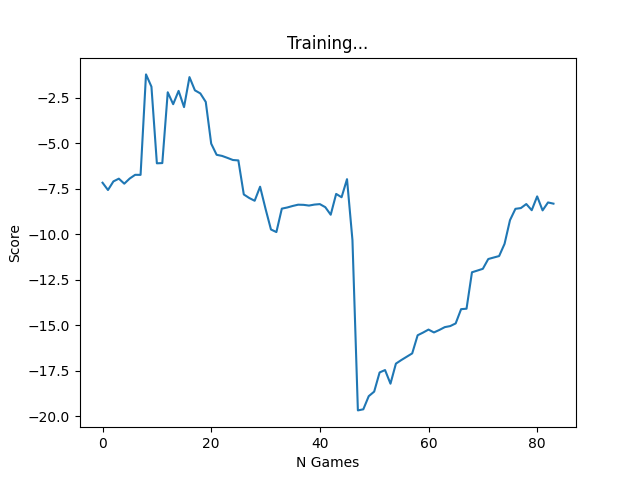
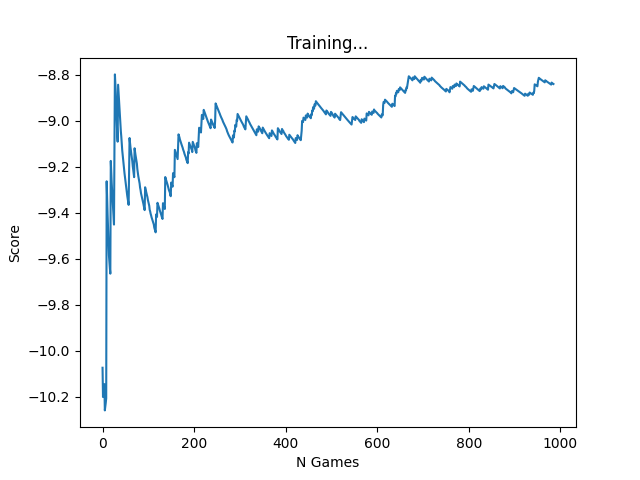
train2 - still stucks inputing distances

diff --git a/Agent.py b/Agent.py
@@ -6,6 +6,8 @@ from AI.model.model import Linear_QNet, QTrainer
 import random
 from AI.Helper.helper import plot
 import pygame
+import math
+import numpy as np
 
 class Agent:
 
@@ -16,13 +18,14 @@ class Agent:
         self.batch_size = AIConfig.batch_size
         self.lr = AIConfig.LR
         self.memory =deque(maxlen=AIConfig.Max_Memory)
-        self.model = Linear_QNet(AIConfig.input_size, AIConfig.hidden_size, AIConfig.output_size)
+        self.model = Linear_QNet(AIConfig.input_size, AIConfig.hidden1_size, AIConfig.hidden2_size, AIConfig.output_size)
         self.trainer = QTrainer(self.model, AIConfig.LR, AIConfig.gamma, )
 
     def get_action(self,state):
-        self.epsilon = AIConfig.epsilon - self.n_game
+        p = random.random() * math.exp(-self.n_game*(AIConfig.epsilon_decay))
+        #print(math.exp(-self.n_game*(AIConfig.epsilon_decay)))
         final_move = [0,0,0]
-        if(random.randint(0, AIConfig.epsilon*3) < self.epsilon):
+        if(p > (1-AIConfig.random_move_prob)):
             move = random.randint(0,2)
             final_move[move] = 1
 
@@ -39,7 +42,8 @@ class Agent:
         self.memory.append((state, action, reward, next_state, done))
 
     def train_short_memory(self, state, action, reward, next_state, done):
-        self.trainer.train_step(state, action, reward, next_state, done)
+        loss = self.trainer.train_step(state, action, reward, next_state, done)
+        return loss
 
     def train_long_memory(self):
         if(len(self.memory) > self.batch_size):
@@ -55,6 +59,8 @@ class Agent:
 def train():
     plot_score = []
     mean_plot_score = []
+    loss_list = []
+    loss_mean = []
     total_score = 0
     record = 0
     agent = Agent()
@@ -71,11 +77,12 @@ def train():
 
         new_state = game_controller.get_state()
 
-        agent.train_short_memory(old_state, final_move, new_state, reward, isEnd)
-
+        loss = agent.train_short_memory(old_state, final_move, new_state, reward, isEnd)
+        loss_list.append(loss.item())
         agent.remember(old_state, final_move, new_state, reward, isEnd)
 
         if isEnd:
+            loss_mean.append(np.mean(loss_list))
             #print(len(game_controller.snake.coordinates))
             game_controller.reset()
 
@@ -92,7 +99,8 @@ def train():
             total_score += score
             mean_score = total_score / agent.n_game
             mean_plot_score.append(mean_score)
-            plot(plot_score, mean_plot_score)
+            plot(mean_plot_score, "score.png")
+            plot(loss_mean, "ssloss.png")
 
 
         game_controller.wait()

diff --git a/AI/AIGameController/AIGameController.py b/AI/AIGameController/AIGameController.py
@@ -4,6 +4,7 @@ from Food.Food import Food
 from Config import GameConfig , AssetsConfig, AIConfig
 import time
 import pygame
+import math
 
 class AIGameController:
     def __init__(self):
@@ -13,6 +14,7 @@ class AIGameController:
         self.score = 0
         self.frame_iteration = 0
         self.negative_step = AIConfig.negative_step
+        self.scale = GameConfig.scale
 
     def move_one_step(self,move_dir):
         self.negative_step += AIConfig.negative_step_growth
@@ -59,9 +61,16 @@ class AIGameController:
             self.score += AIConfig.punish
             reward = AIConfig.punish
             return reward, True, self.score
+
+        elif(len(self.snake.coordinates) * AIConfig.max_step_coef < self.frame_iteration ):
+            self.score += AIConfig.punish
+            reward = AIConfig.punish
+            return reward, True, self.score
+
         else:
-            self.score += self.negative_step
+            #self.score += self.negative_step
             reward = self.negative_step
+            reward = 0
 
             return reward, False, self.score
 
@@ -69,9 +78,36 @@ class AIGameController:
     def get_state(self):
         state = []
         state += self.snake.detect_danger()
-        state += self.snake.get_direction()
+        #state += self.snake.get_direction()
         state += self.get_food_direction()
+        state += self.get_food_distance()
+        #state += self.get_frame_iteration()
         return state
+
+    def get_frame_iteration(self):
+        fr_list = [0,0,0,0,0,0,0,0,0,0,0]
+        for i in range(len(fr_list)):
+            fr_list[i] = self.frame_iteration % (2**i)
+        return fr_list
+
+    def get_food_distance(self):
+
+        dis = abs(self.snake.coordinates[0][0] - self.food.coordinate[0])/self.scale + abs(self.snake.coordinates[0][1] - self.food.coordinate[1])/self.scale
+        """
+        dis_list = [0, 0, 0, 0]
+        dis = int(dis)
+        dis_list[0] = dis % 2
+        dis = int(dis/2)
+        dis_list[1] = dis % 2
+        dis = int(dis/2)
+        dis_list[2] = dis % 2
+        dis = int(dis/2)
+        dis_list[3] = dis % 2
+        """
+
+        dis_list=[int(dis)]
+        return dis_list
+
 
     def get_food_direction(self):
         dir = [0,0,0,0]

diff --git a/Snake/Snake.py b/Snake/Snake.py
@@ -5,6 +5,8 @@ from Utils.Utils import Utils
 class Snake:
     def __init__(self):
         self.scale = GameConfig.scale
+        self.game_width = GameConfig.Game_Width
+        self.game_hight = GameConfig.Game_Hight
         self.icon = pygame.image.load(AssetsConfig.SnakeBlockAddress)
         self.head_icon = pygame.image.load(AssetsConfig.SnakeHeadBlockAddress)
         self.direction = "right"
@@ -150,11 +152,14 @@ class Snake:
         (x, y) = self.coordinates[0]
 
         if(self.direction == "left"):
-            if((x-self.scale,y) in self.coordinates[1:] + self.walls):
-                danger[0] = 1
 
-            if((x,y-self.scale) in self.coordinates[1:] + self.walls):
-                danger[1] = 1
+            for i in range(self.game_width):
+                if((x-i*self.scale,y) in self.coordinates[1:] + self.walls):
+                    danger[0] = i
+
+            for i in range(self.game_hight):
+                if((x,y-i*self.scale) in self.coordinates[1:] + self.walls):
+                    danger[1] = 1
 
             if((x,y+self.scale) in self.coordinates[1:] + self.walls):
                 danger[2] = 1

diff --git a/AI/model/model.py b/AI/model/model.py
@@ -5,14 +5,16 @@ import torch.nn.functional as F
 import os
 
 class Linear_QNet(nn.Module):
-    def __init__(self, input_size, hidden_size , output_size):
+    def __init__(self, input_size, hidden1_size, hidden2_size  , output_size):
         super().__init__()
-        self.Linear1 = nn.Linear(input_size, hidden_size)
-        self.Linear2 = nn.Linear(hidden_size, output_size)
+        self.Linear1 = nn.Linear(input_size, hidden1_size)
+        #self.Linear2 = nn.Linear(hidden1_size, hidden2_size)
+        self.Linear3 = nn.Linear(hidden1_size, output_size)
 
     def forward(self, x):
         x = F.relu(self.Linear1(x))
-        x = self.Linear2(x)
+        #x = F.relu(self.Linear2(x))
+        x = self.Linear3(x)
         return x
 
     def save(self,file_name="model.pth" ):
@@ -58,6 +60,8 @@ class QTrainer:
         loss.backward()
 
         self.optimizer.step()
+
+        return loss
 
 
 

diff --git a/AI/Helper/helper.py b/AI/Helper/helper.py
@@ -3,18 +3,17 @@ import matplotlib.pyplot as plt
 
 #plt.ion()
 
-def plot(scores, mean_scores):
+def plot(mean_scores, plot_name):
     #display.clear_output(wait=True)
     #display.display(plt.gcf())
     plt.clf()
     plt.title("Training...")
     plt.xlabel("N Games")
     plt.ylabel("Score")
-    X = [i for i in range(0,len(scores))]
     #plt.plot(scores)
     plt.plot(mean_scores)
     #plt.ylim(ymin=0)
     #plt.draw()
     #plt.text(len(scores)-1, scores[-1], str[scores[-1]])
     #plt.text(len(mean_scores)-1, mean_scores[-1], str(mean_scores[-1]))
-    plt.savefig("plot.png")
+    plt.savefig(plot_name)

diff --git a/Config/AIConfig.py b/Config/AIConfig.py
@@ -1,13 +1,17 @@
-gamma = 0.8
-epsilon = 120
-LR = 0.001
+gamma = 0.9
+epsilon = 200
+random_move_prob = 0.65
+epsilon_decay = 0.005
+LR = 0.01
 Max_Memory = 100_000
-batch_size = 1000
-reward = 50
-punish = -5
-input_size = 11
-hidden_size = 256
+batch_size = 100
+reward = 10
+punish = -10
+input_size = 8
+hidden1_size = 256
+hidden2_size = 128
 output_size = 3
-negative_step = -0.01
-negative_step_growth = -0.005
+negative_step = -0.005
+negative_step_growth = -0.0001
+max_step_coef = 100
 

diff --git a/Config/AssetsConfig.py b/Config/AssetsConfig.py
@@ -2,6 +2,6 @@ FoodBlockAddress = "assets/FoodBlock.png"
 SnakeBlockAddress = "assets/SnakeBlock.png"
 SnakeHeadBlockAddress = "assets/SnakeHeadBlock.png"
 WallBlockAddress = "assets/WallBlock.png"
-backGroundAddress = "assets/backGround750.jpg"
+backGroundAddress = "assets/backGround400.jpg"
 wallBlockAddress = "assets/firewall1.png"
 

diff --git a/Config/GameConfig.py b/Config/GameConfig.py
@@ -1,6 +1,6 @@
 scale = 50
-Game_Width = 15
-Game_Hight = 15
+Game_Width = 8
+Game_Hight = 8
 Screen_Width = Game_Width * scale
 Screen_Hight = Game_Hight * scale
 FPS=60
